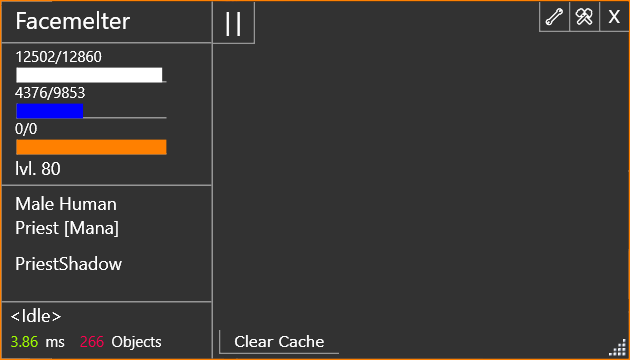
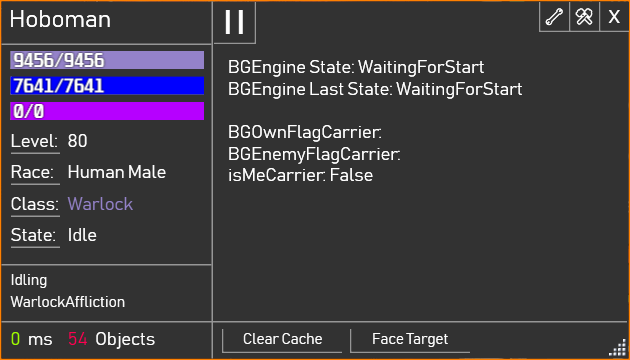
small tweaks, gui changes

diff --git a/AmeisenBotX/MainWindow.xaml b/AmeisenBotX/MainWindow.xaml
@@ -13,12 +13,12 @@
         <SolidColorBrush Color="{DynamicResource DarkBackground}" />
     </Window.Background>
     <Grid>
-        <Label x:Name="labelPlayerName" Content="BotName" HorizontalAlignment="Left" VerticalAlignment="Top" FontSize="16" Margin="4,-4,0,0">
+        <Label x:Name="labelPlayerName" Content="BotName" HorizontalAlignment="Left" VerticalAlignment="Top" FontSize="16" Margin="0,-2,0,0" FontFamily="Bahnschrift Light">
             <Label.Foreground>
                 <SolidColorBrush Color="{DynamicResource DarkForeground}" />
             </Label.Foreground>
         </Label>
-        <Label x:Name="labelCurrentState" Content="None" HorizontalAlignment="Left" Margin="0,198,0,0" VerticalAlignment="Top" FontFamily="Unispace">
+        <Label x:Name="labelCurrentState" Content="None" HorizontalAlignment="Left" Margin="44,149,0,0" VerticalAlignment="Top" FontFamily="Bahnschrift Light" Padding="0">
             <Label.Foreground>
                 <SolidColorBrush Color="{DynamicResource DarkForeground}" />
             </Label.Foreground>
@@ -28,7 +28,7 @@
                 <SolidColorBrush Color="{DynamicResource DarkForeground}" />
             </Button.Foreground>
         </Button>
-        <ProgressBar x:Name="progressbarHealth" HorizontalAlignment="Left" Height="10" Margin="10,44,0,0" VerticalAlignment="Top" Width="100" BorderThickness="1,0,0,1" Value="50">
+        <ProgressBar x:Name="progressbarHealth" HorizontalAlignment="Left" Height="12" Margin="6,33,0,0" VerticalAlignment="Top" Width="129" BorderThickness="1,0,0,1" Value="50">
             <ProgressBar.Foreground>
                 <SolidColorBrush Color="{DynamicResource PlayerHealthBar}" />
             </ProgressBar.Foreground>
@@ -39,7 +39,7 @@
                 <SolidColorBrush Color="{DynamicResource DarkBackground}" />
             </ProgressBar.Background>
         </ProgressBar>
-        <ProgressBar x:Name="progressbarSecondary" HorizontalAlignment="Left" Height="10" Margin="10,68,0,0" VerticalAlignment="Top" Width="100" BorderThickness="1,0,0,1" Foreground="Cyan" Value="50">
+        <ProgressBar x:Name="progressbarSecondary" HorizontalAlignment="Left" Height="12" Margin="6,50,0,0" VerticalAlignment="Top" Width="129" BorderThickness="1,0,0,1" Foreground="Cyan" Value="50">
             <ProgressBar.BorderBrush>
                 <SolidColorBrush Color="{DynamicResource DarkBorder}" />
             </ProgressBar.BorderBrush>
@@ -47,10 +47,7 @@
                 <SolidColorBrush Color="{DynamicResource DarkBackground}" />
             </ProgressBar.Background>
         </ProgressBar>
-        <ProgressBar x:Name="progressbarExp" HorizontalAlignment="Left" Height="10" Margin="10,92,0,0" VerticalAlignment="Top" Width="100" BorderThickness="1,0,0,1" Value="50">
-            <ProgressBar.Foreground>
-                <SolidColorBrush Color="{DynamicResource DarkAccent1}" />
-            </ProgressBar.Foreground>
+        <ProgressBar x:Name="progressbarExp" HorizontalAlignment="Left" Height="12" Margin="6,67,0,0" VerticalAlignment="Top" Width="129" BorderThickness="1,0,0,1" Value="50" Foreground="#FFB600FF">
             <ProgressBar.BorderBrush>
                 <SolidColorBrush Color="{DynamicResource DarkBorder}" />
             </ProgressBar.BorderBrush>
@@ -58,23 +55,23 @@
                 <SolidColorBrush Color="{DynamicResource DarkBackground}" />
             </ProgressBar.Background>
         </ProgressBar>
-        <WrapPanel HorizontalAlignment="Left" Height="22" VerticalAlignment="Top" Width="116" Margin="6,216,0,0">
-            <Label x:Name="labelCurrentTickTime" Content="0" HorizontalAlignment="Left" VerticalAlignment="Top" FontFamily="Unispace" FontSize="10" Background="{x:Null}" Padding="0,5,5,5">
+        <WrapPanel HorizontalAlignment="Left" Height="15" VerticalAlignment="Top" Width="129" Margin="6,218,0,0">
+            <Label x:Name="labelCurrentTickTime" Content="0" HorizontalAlignment="Left" VerticalAlignment="Top" FontFamily="Bahnschrift Light" Background="{x:Null}" Padding="0,0,5,0">
                 <Label.Foreground>
                     <SolidColorBrush Color="{DynamicResource TextAccent}" />
                 </Label.Foreground>
             </Label>
-            <Label x:Name="labelCurrentTickTimeDesc" Content="ms" HorizontalAlignment="Left" VerticalAlignment="Top" FontFamily="Unispace" FontSize="10" Background="{x:Null}" Padding="0,5,5,5">
+            <Label x:Name="labelCurrentTickTimeDesc" Content="ms" HorizontalAlignment="Left" VerticalAlignment="Top" FontFamily="Bahnschrift Light" Background="{x:Null}" Padding="0,0,5,0">
                 <Label.Foreground>
                     <SolidColorBrush Color="{DynamicResource DarkForeground}" />
                 </Label.Foreground>
             </Label>
-            <Label x:Name="labelCurrentObjectCount" Content="0" HorizontalAlignment="Left" VerticalAlignment="Top" FontFamily="Unispace" FontSize="10" Background="{x:Null}">
+            <Label x:Name="labelCurrentObjectCount" Content="0" HorizontalAlignment="Left" VerticalAlignment="Top" FontFamily="Bahnschrift Light" Background="{x:Null}" Padding="5,0">
                 <Label.Foreground>
                     <SolidColorBrush Color="{DynamicResource TextAccent}" />
                 </Label.Foreground>
             </Label>
-            <Label x:Name="labelCurrentObjectCountDesc" Content="Objects" HorizontalAlignment="Left" VerticalAlignment="Top" FontFamily="Unispace" FontSize="10" Background="{x:Null}" Padding="0,5">
+            <Label x:Name="labelCurrentObjectCountDesc" Content="Objects" HorizontalAlignment="Left" VerticalAlignment="Top" FontFamily="Bahnschrift Light" Background="{x:Null}" Padding="0">
                 <Label.Foreground>
                     <SolidColorBrush Color="{DynamicResource DarkForeground}" />
                 </Label.Foreground>
@@ -85,17 +82,17 @@
                 <SolidColorBrush Color="{DynamicResource DarkBorder}" />
             </Rectangle.Fill>
         </Rectangle>
-        <Label x:Name="labelCurrentLevel" Content="lvl. 0 " HorizontalAlignment="Left" Margin="4,100,0,0" VerticalAlignment="Top" FontFamily="Unispace">
+        <Label x:Name="labelCurrentLevel" Content="80" HorizontalAlignment="Left" Margin="44,86,0,0" VerticalAlignment="Top" FontFamily="Bahnschrift Light" Padding="0">
             <Label.Foreground>
                 <SolidColorBrush Color="{DynamicResource DarkForeground}" />
             </Label.Foreground>
         </Label>
-        <Label x:Name="labelCurrentRace" Content="Race" HorizontalAlignment="Left" Margin="4,123,0,0" VerticalAlignment="Top" FontFamily="Unispace" FontSize="10">
+        <Label x:Name="labelCurrentRace" Content="Race" HorizontalAlignment="Left" Margin="44,107,0,0" VerticalAlignment="Top" FontFamily="Bahnschrift Light" Padding="0">
             <Label.Foreground>
                 <SolidColorBrush Color="{DynamicResource DarkForeground}" />
             </Label.Foreground>
         </Label>
-        <Label x:Name="labelCurrentClass" Content="Class" HorizontalAlignment="Left" Margin="4,139,0,0" VerticalAlignment="Top" FontFamily="Unispace" FontSize="10">
+        <Label x:Name="labelCurrentClass" Content="Class" HorizontalAlignment="Left" Margin="44,128,0,0" VerticalAlignment="Top" FontFamily="Bahnschrift Light" Padding="0">
             <Label.Foreground>
                 <SolidColorBrush Color="{DynamicResource DarkForeground}" />
             </Label.Foreground>
@@ -105,42 +102,46 @@
                 <SolidColorBrush Color="{DynamicResource DarkForeground}" />
             </Button.Foreground>
         </Button>
-        <Rectangle HorizontalAlignment="Left" Margin="0,0,0,37.333" Width="140" Height="1" VerticalAlignment="Bottom">
+        <Rectangle HorizontalAlignment="Left" Margin="0,0,0,24" Width="417" Height="1" VerticalAlignment="Bottom">
             <Rectangle.Fill>
                 <SolidColorBrush Color="{DynamicResource DarkBorder}" />
             </Rectangle.Fill>
         </Rectangle>
-        <Rectangle HorizontalAlignment="Left" Margin="0,0,0,115" Width="140" Height="1" VerticalAlignment="Bottom">
+        <Rectangle HorizontalAlignment="Left" Margin="0,0,0,209" Width="140" Height="1" VerticalAlignment="Bottom">
             <Rectangle.Fill>
                 <SolidColorBrush Color="{DynamicResource DarkBorder}" />
             </Rectangle.Fill>
         </Rectangle>
-        <Rectangle HorizontalAlignment="Left" Margin="0,0,0,209.333" Width="140" Height="1" VerticalAlignment="Bottom">
-            <Rectangle.Fill>
-                <SolidColorBrush Color="{DynamicResource DarkBorder}" />
-            </Rectangle.Fill>
-        </Rectangle>
-        <Label x:Name="labelCurrentHealth" Content="0/0" HorizontalAlignment="Left" Margin="4,26,0,0" VerticalAlignment="Top" FontFamily="Unispace" FontSize="10">
+        <Label x:Name="labelCurrentHealth" Content="0/0" HorizontalAlignment="Left" Margin="8,33,0,0" VerticalAlignment="Top" FontFamily="Unispace" FontSize="11" Padding="0" VerticalContentAlignment="Center" HorizontalContentAlignment="Center" Height="12">
+            <Label.Effect>
+                <DropShadowEffect BlurRadius="2" ShadowDepth="0" Direction="0"/>
+            </Label.Effect>
             <Label.Foreground>
                 <SolidColorBrush Color="{DynamicResource DarkForeground}" />
             </Label.Foreground>
         </Label>
-        <Label x:Name="labelCurrentSecondary" Content="0/0" HorizontalAlignment="Left" Margin="4,50,0,0" VerticalAlignment="Top" FontFamily="Unispace" FontSize="10">
+        <Label x:Name="labelCurrentSecondary" Content="0/0" HorizontalAlignment="Left" Margin="8,50,0,0" VerticalAlignment="Top" FontFamily="Unispace" FontSize="11" Padding="0" VerticalContentAlignment="Center" HorizontalContentAlignment="Center" Height="12">
+            <Label.Effect>
+                <DropShadowEffect BlurRadius="2" ShadowDepth="0" Direction="0"/>
+            </Label.Effect>
             <Label.Foreground>
                 <SolidColorBrush Color="{DynamicResource DarkForeground}" />
             </Label.Foreground>
         </Label>
-        <Label x:Name="labelCurrentExp" Content="0/0" HorizontalAlignment="Left" Margin="4,74,0,0" VerticalAlignment="Top" FontFamily="Unispace" FontSize="10">
+        <Label x:Name="labelCurrentExp" Content="0/0" HorizontalAlignment="Left" Margin="8,67,0,0" VerticalAlignment="Top" FontFamily="Unispace" FontSize="11" Padding="0" VerticalContentAlignment="Center" HorizontalContentAlignment="Center" Height="12">
+            <Label.Effect>
+                <DropShadowEffect BlurRadius="2" ShadowDepth="0" Direction="0"/>
+            </Label.Effect>
             <Label.Foreground>
                 <SolidColorBrush Color="{DynamicResource DarkForeground}" />
             </Label.Foreground>
         </Label>
-        <Label x:Name="labelCurrentCombatclass" Content="CombatClass" HorizontalAlignment="Left" Margin="4,156,0,0" VerticalAlignment="Top" FontFamily="Unispace">
+        <Label x:Name="labelCurrentCombatclass" Content="CombatClass" HorizontalAlignment="Left" Margin="6,195,0,0" VerticalAlignment="Top" FontFamily="Bahnschrift Light" Padding="0" FontSize="10">
             <Label.Foreground>
                 <SolidColorBrush Color="{DynamicResource DarkForeground}" />
             </Label.Foreground>
         </Label>
-        <Button x:Name="buttonClearCache" Content="Clear Cache" Margin="0,219,193.333,0" Click="ButtonClearCache_Click" BorderThickness="1,0,0,1" Padding="1" HorizontalAlignment="Right" Width="80" Height="16" VerticalAlignment="Top" FontFamily="Verdana" FontSize="10" Style="{DynamicResource ButtonStyleDark}">
+        <Button x:Name="buttonClearCache" Content="Clear Cache" Margin="0,218,191,0" Click="ButtonClearCache_Click" BorderThickness="1,0,0,1" Padding="1" HorizontalAlignment="Right" Width="80" Height="16" VerticalAlignment="Top" FontFamily="Bahnschrift Light" FontSize="10" Style="{DynamicResource ButtonStyleDark}">
             <Button.Foreground>
                 <SolidColorBrush Color="{DynamicResource DarkForeground}" />
             </Button.Foreground>
@@ -150,21 +151,58 @@
                 <SolidColorBrush Color="{DynamicResource DarkForeground}" />
             </Button.Foreground>
         </Button>
-        <Button x:Name="buttonStartPause" Content="||" Margin="0,0,248.333,0" BorderThickness="0,0,1,1" Padding="1" HorizontalAlignment="Right" Width="28" Height="28" VerticalAlignment="Top" FontFamily="Verdana" FontSize="16" Style="{DynamicResource ButtonStyleDark}" Click="ButtonStartPause_Click">
+        <Button x:Name="buttonStartPause" Content="||" Margin="0,0,248.333,0" BorderThickness="0,0,1,1" Padding="0,-3,0,0" HorizontalAlignment="Right" Width="28" Height="28" VerticalAlignment="Top" FontFamily="Verdana" FontSize="16" Style="{DynamicResource ButtonStyleDark}" Click="ButtonStartPause_Click" FontWeight="Bold" SnapsToDevicePixels="True">
             <Button.Foreground>
                 <SolidColorBrush Color="{DynamicResource DarkForeground}" />
             </Button.Foreground>
         </Button>
-        <Button x:Name="buttonFaceTarget" Content="Face Target" Margin="0,219,108.333,0" Click="ButtonFaceTarget_Click" BorderThickness="1,0,0,1" Padding="1" HorizontalAlignment="Right" Width="80" Height="16" VerticalAlignment="Top" FontFamily="Verdana" FontSize="10" Style="{DynamicResource ButtonStyleDark}">
+        <Button x:Name="buttonFaceTarget" Content="Face Target" Margin="0,218,106,0" Click="ButtonFaceTarget_Click" BorderThickness="1,0,0,1" Padding="1" HorizontalAlignment="Right" Width="80" Height="16" VerticalAlignment="Top" FontFamily="Bahnschrift Light" FontSize="10" Style="{DynamicResource ButtonStyleDark}">
             <Button.Foreground>
                 <SolidColorBrush Color="{DynamicResource DarkForeground}" />
             </Button.Foreground>
         </Button>
-        <Label x:Name="labelBgObjective" Content="BGObjective: None" HorizontalAlignment="Left" Margin="146,32,0,0" VerticalAlignment="Top" Foreground="White" />
-        <Label x:Name="labelGamestate" Content="GameState" HorizontalAlignment="Left" Margin="4,177,0,0" VerticalAlignment="Top" FontFamily="Unispace" FontSize="10">
+        <Label x:Name="labelBgObjective" Content="BGObjective: None" HorizontalAlignment="Left" Margin="146,32,0,0" VerticalAlignment="Top" Foreground="White" FontFamily="Bahnschrift Light" Height="162" Width="268" />
+        <Label x:Name="labelGamestate" Content="GameState" HorizontalAlignment="Left" Margin="6,180,0,0" VerticalAlignment="Top" FontFamily="Bahnschrift Light" FontSize="10" Padding="0">
             <Label.Foreground>
                 <SolidColorBrush Color="{DynamicResource DarkForeground}" />
             </Label.Foreground>
         </Label>
+        <Label Content="Level:" HorizontalAlignment="Left" Margin="6,86,0,0" VerticalAlignment="Top" FontFamily="Bahnschrift Light" Padding="0" BorderThickness="0,0,0,1" Width="33">
+            <Label.BorderBrush>
+                <SolidColorBrush Color="{DynamicResource DarkBorder}"/>
+            </Label.BorderBrush>
+            <Label.Foreground>
+                <SolidColorBrush Color="{DynamicResource DarkForeground}" />
+            </Label.Foreground>
+        </Label>
+        <Label Content="Race:" HorizontalAlignment="Left" Margin="6,107,0,0" VerticalAlignment="Top" FontFamily="Bahnschrift Light" Padding="0" BorderThickness="0,0,0,1" Width="33">
+            <Label.BorderBrush>
+                <SolidColorBrush Color="{DynamicResource DarkBorder}"/>
+            </Label.BorderBrush>
+            <Label.Foreground>
+                <SolidColorBrush Color="{DynamicResource DarkForeground}" />
+            </Label.Foreground>
+        </Label>
+        <Label Content="Class:" HorizontalAlignment="Left" Margin="6,128,0,0" VerticalAlignment="Top" FontFamily="Bahnschrift Light" Padding="0" BorderThickness="0,0,0,1" Width="33">
+            <Label.BorderBrush>
+                <SolidColorBrush Color="{DynamicResource DarkBorder}"/>
+            </Label.BorderBrush>
+            <Label.Foreground>
+                <SolidColorBrush Color="{DynamicResource DarkForeground}" />
+            </Label.Foreground>
+        </Label>
+        <Label Content="State:" HorizontalAlignment="Left" Margin="6,149,0,0" VerticalAlignment="Top" FontFamily="Bahnschrift Light" Padding="0" BorderThickness="0,0,0,1" Width="33">
+            <Label.BorderBrush>
+                <SolidColorBrush Color="{DynamicResource DarkBorder}"/>
+            </Label.BorderBrush>
+            <Label.Foreground>
+                <SolidColorBrush Color="{DynamicResource DarkForeground}" />
+            </Label.Foreground>
+        </Label>
+        <Rectangle HorizontalAlignment="Left" Margin="0,0,0,62" Width="140" Height="1" VerticalAlignment="Bottom">
+            <Rectangle.Fill>
+                <SolidColorBrush Color="{DynamicResource DarkBorder}" />
+            </Rectangle.Fill>
+        </Rectangle>
     </Grid>
 </Window>

diff --git a/AmeisenBotX/MainWindow.xaml.cs b/AmeisenBotX/MainWindow.xaml.cs
@@ -235,7 +235,7 @@ namespace AmeisenBotX
         {
             Dispatcher.InvokeAsync(() =>
             {
-                labelCurrentState.Content = $"<{AmeisenBot.StateMachine.CurrentState.Key}>";
+                labelCurrentState.Content = $"{AmeisenBot.StateMachine.CurrentState.Key}";
             });
         }
 
@@ -254,9 +254,9 @@ namespace AmeisenBotX
 
             labelGamestate.Content = AmeisenBot.WowInterface.ObjectManager.GameState;
 
-            labelCurrentLevel.Content = $"lvl. {AmeisenBot.WowInterface.ObjectManager.Player.Level}";
-            labelCurrentRace.Content = $"{AmeisenBot.WowInterface.ObjectManager.Player.Gender} {AmeisenBot.WowInterface.ObjectManager.Player.Race}";
-            labelCurrentClass.Content = $"{AmeisenBot.WowInterface.ObjectManager.Player.Class} [{AmeisenBot.WowInterface.ObjectManager.Player.PowerType}]";
+            labelCurrentLevel.Content = $"{AmeisenBot.WowInterface.ObjectManager.Player.Level}";
+            labelCurrentRace.Content = $"{AmeisenBot.WowInterface.ObjectManager.Player.Race} {AmeisenBot.WowInterface.ObjectManager.Player.Gender}";
+            labelCurrentClass.Content = $"{AmeisenBot.WowInterface.ObjectManager.Player.Class}";
 
             progressbarExp.Maximum = AmeisenBot.WowInterface.ObjectManager.Player.NextLevelXp;
             progressbarExp.Value = AmeisenBot.WowInterface.ObjectManager.Player.Xp;
@@ -281,6 +281,11 @@ namespace AmeisenBotX
             if (progressbarSecondary.Foreground != secondaryBrush)
             {
                 progressbarSecondary.Foreground = secondaryBrush;
+            }
+
+            if (labelCurrentClass.Foreground != primaryBrush)
+            {
+                labelCurrentClass.Foreground = primaryBrush;
             }
         }
 

diff --git a/AmeisenBotX.Core/StateMachine/AmeisenBotStateMachine.cs b/AmeisenBotX.Core/StateMachine/AmeisenBotStateMachine.cs
@@ -124,6 +124,9 @@ namespace AmeisenBotX.Core.Statemachine
             // execute the State
             CurrentState.Value.Execute();
 
+            // anti AFK
+            WowInterface.CharacterManager.AntiAfk();
+
             // used for ui updates
             OnStateMachineTick?.Invoke();
         }
@@ -178,9 +181,6 @@ namespace AmeisenBotX.Core.Statemachine
             {
                 WowInterface.EventHookManager.ReadEvents();
                 LastEventPull = DateTime.Now;
-
-                // anti AFK
-                WowInterface.CharacterManager.AntiAfk();
             }
         }
 

diff --git a/AmeisenBotX.Core/Data/ObjectManager.cs b/AmeisenBotX.Core/Data/ObjectManager.cs
@@ -21,6 +21,7 @@ namespace AmeisenBotX.Core.Data
             IsWorldLoaded = true;
             WowObjects = new List<WowObject>();
             ZoneName = string.Empty;
+            PartymemberGuids = new List<ulong>();
         }
 
         public event ObjectUpdateComplete OnObjectUpdateComplete;
